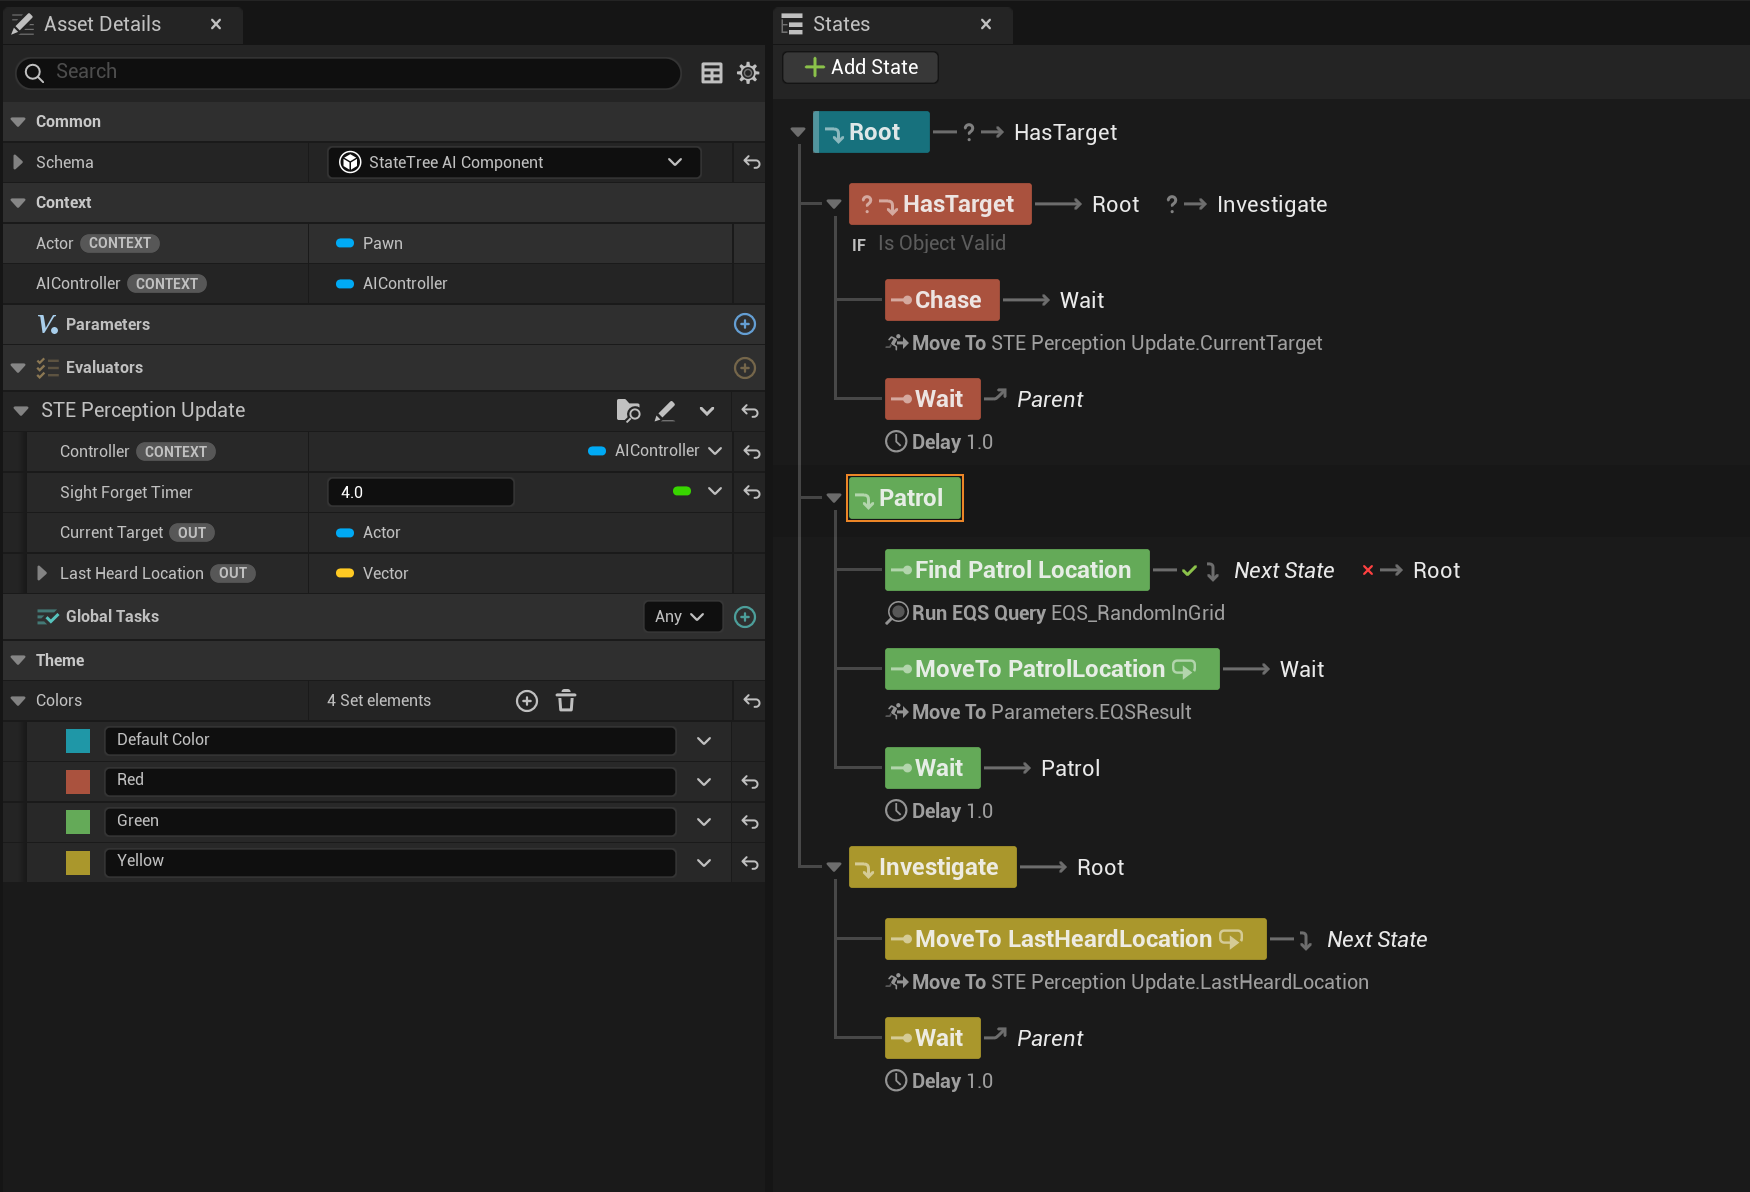
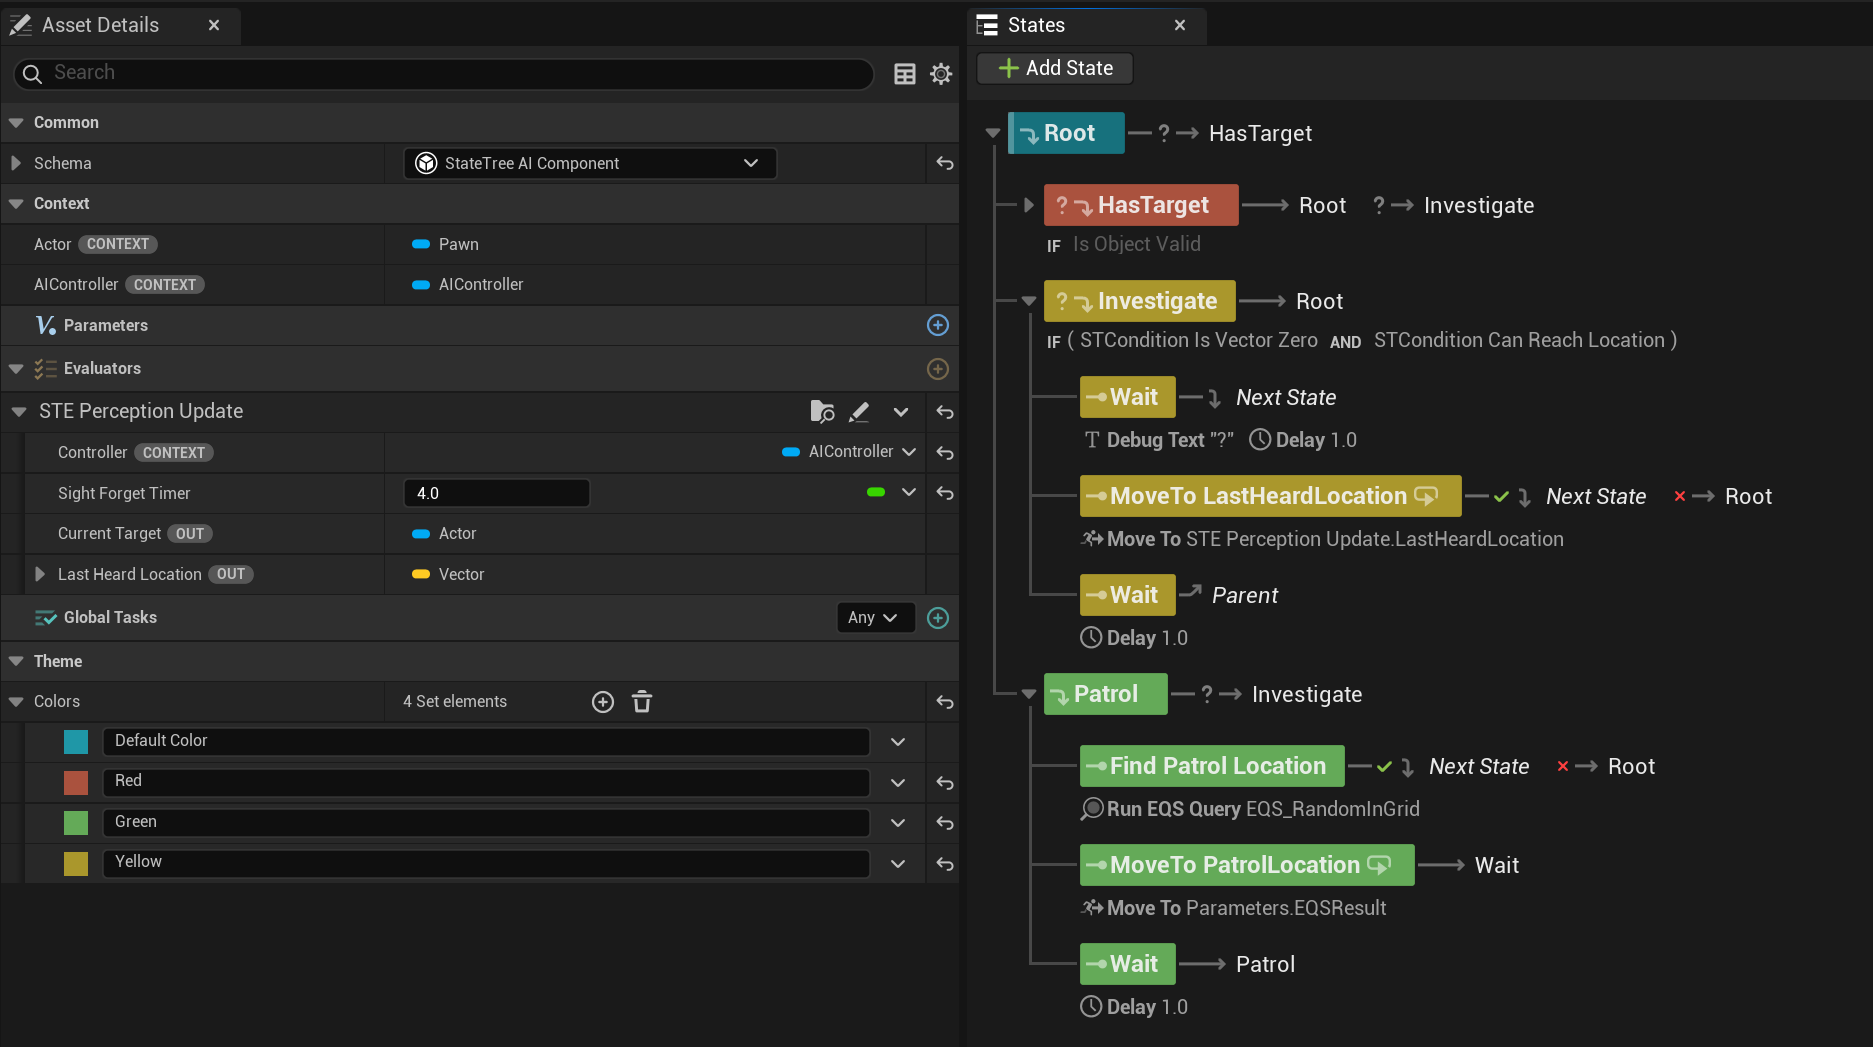
some fixes to transition logic explanation

diff --git a/content/blog/unreal-action-ai/unreal-action-ai.md b/content/blog/unreal-action-ai/unreal-action-ai.md
@@ -159,10 +159,6 @@ Notice 2 things:
 
 I am using another event here to inform the tree that the target is lost and a transition is required.
 
-The whole tree looks like this:
-
-<img src="./ste.png" alt="The AI tree">
-
 The key here is in how to setup transitions. In particular we want to be sure that from any state we can go to Chase the moment the Agent catches sight of the target. That is why we put this transition on Root:
 
 <img src="./root-chase.png" alt="Transition to chase the moment a target is acquired">
@@ -174,15 +170,13 @@ From Chase, we go to investigate if the *Evaluator* tells us that we lost track 
 <img src="./chase-transitions.png" alt="Chase transitions">
 <img src="./chase-transitions-detail.png" alt="Chase transitions detail">
 
-
-From Patrol we similarly move to root when Agent cannot find a valid patrol location, else we stay in that state (until a target is acquired that is):
-
-<img src="./patrol-transitions.png" alt="Patrol transitions">
-
-Lastly, from investigate we always go to root, whether we can investigate the last heard location or not (always have a failsafe transition if Agent cannot perform certain actions).
+From investigate we always go to root, whether we can investigate the last heard location or not (always have a failsafe transition if Agent cannot perform certain actions).
 
 <img src="./investigate-transitions.png" alt="Investigate transitions">
 
+Lastly, from Patrol we similarly move to root when Agent cannot find a valid patrol location, or we transition to Investigate if a sound is heard.
+
+<img src="./patrol-transitions.png" alt="Patrol transitions">
 
 And really, that's it.
 
